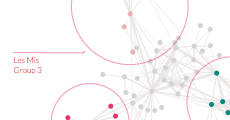
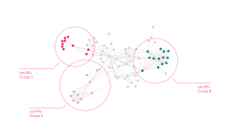
add images, blockify

diff --git a/03/vis.js b/03/vis.js
@@ -142,6 +142,9 @@ d3.json('graph.json', (error, graph) => {
   svg.append('g')
     .attr('class', 'annotation-encircle')
     .call(makeAnnotations);
+
+  svg.selectAll('.annotation-subject')
+    .style('pointer-events', 'none');
 });
 
 function dragstarted(d) {

diff --git a/03/README.md b/03/README.md
@@ -1,5 +1,10 @@
-an iteration with a new dataset
-
----
-
 Made with [d3.annotation](http://d3-annotation.susielu.com). An example showing how you can dynamically update the annotations on tick with a network graph.
+
+this iteration that makes the nodes underneath the annotation circles draggable too 🖱🎉
+
+```
+  svg.selectAll('.annotation-subject')
+    .style('pointer-events', 'none');
+```
+
+an iteration on the block [d3-annotation: Encircling Example](https://bl.ocks.org/susielu/24ad9f80b9b681ce967f6005a03384f3) from [@datatoviz](https://twitter.com/datatoviz)
